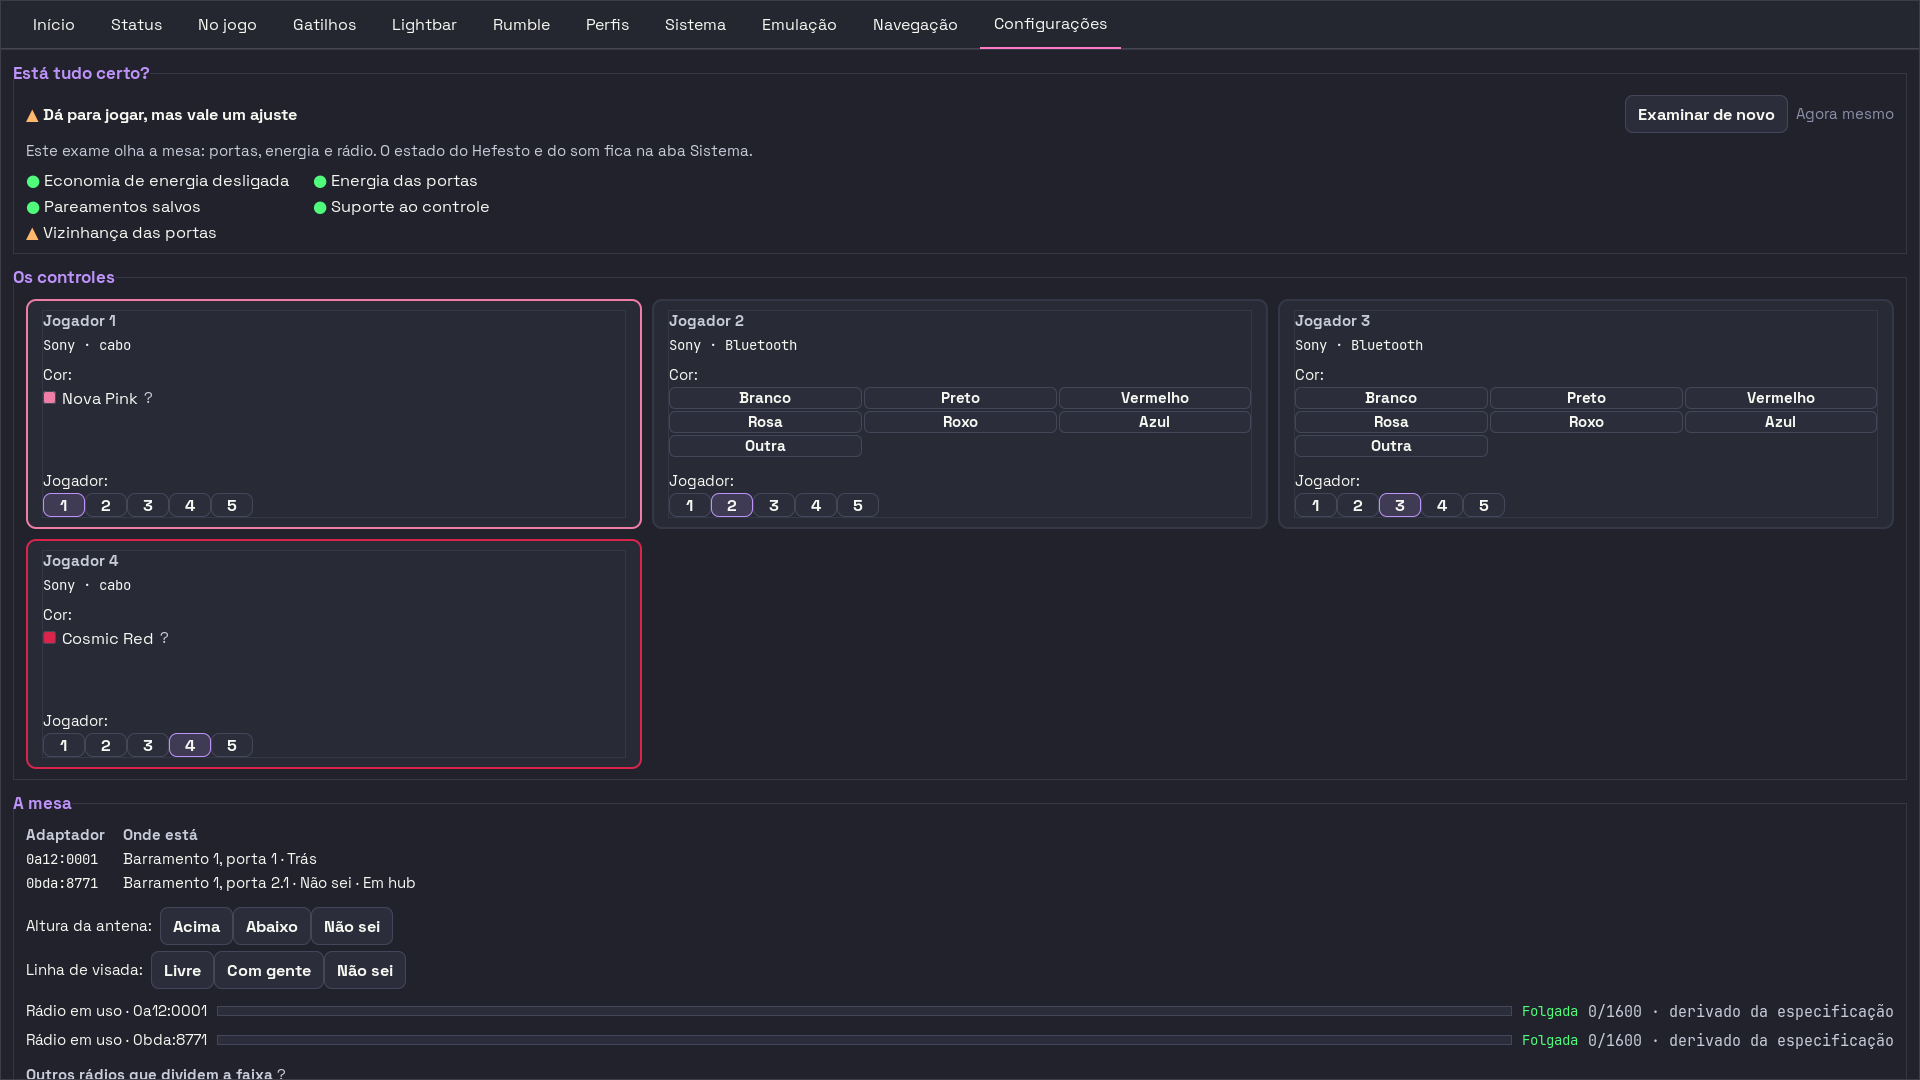
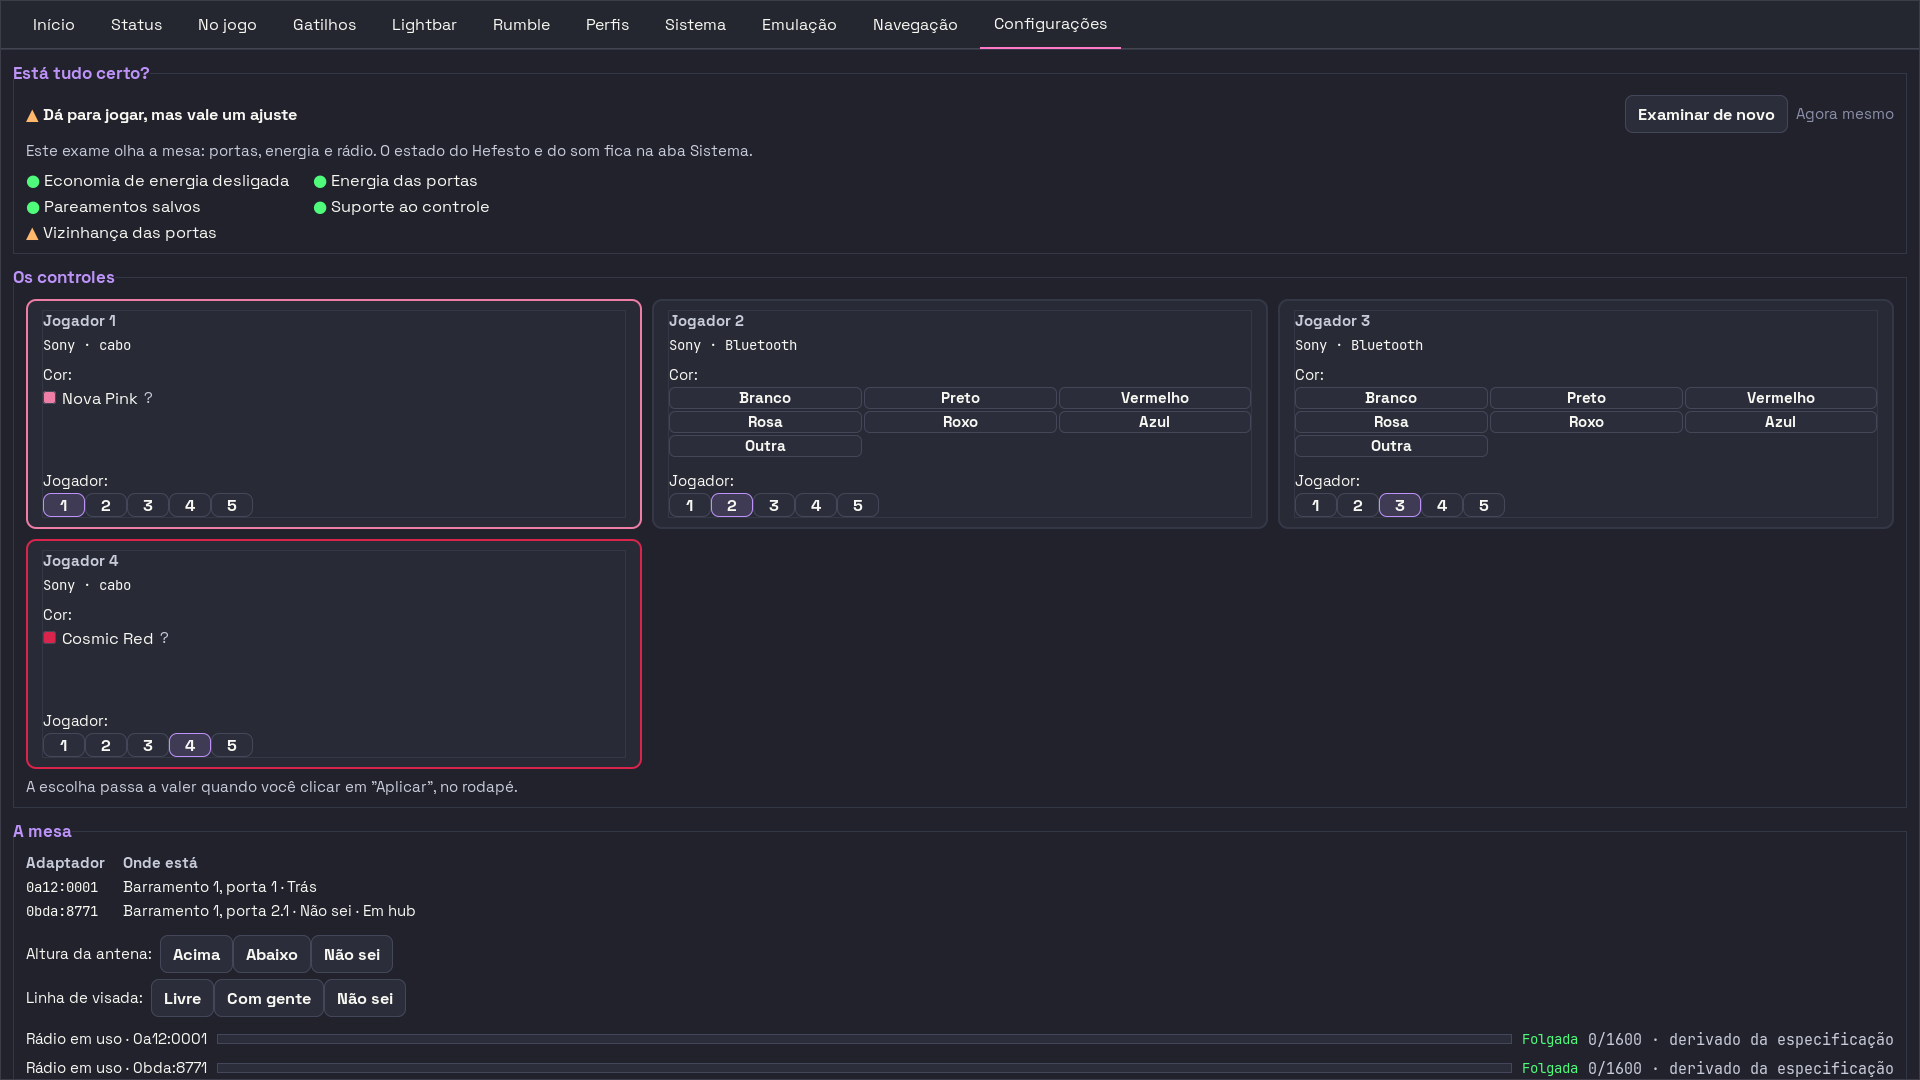
chore: o specs.html regerado, a foto acima da dobra, e as chaves de payload isentas do portão de acento

Changed region(s): [[0.0, 0.7333, 1.0, 1.0], [0.0312, 0.7028, 0.2812, 0.7333]]

diff --git a/specs.html b/specs.html
@@ -942,7 +942,7 @@ footer .selo { font-family: var(--font-dado); font-size: var(--text-xs);
        No estudo da lightbar eram quatro dos cinco canais; parar de acioná-los foi
        o que deixou o produto menor. Um culpado isolado diz por onde acionar; os
        inocentados dizem <em>o que dá para parar de fazer</em>.</p>
-    <p class="selo">gerado em 22/08/2026 15:56 a partir de docs/data/mapa-controles.csv ·
+    <p class="selo">gerado em 22/08/2026 16:59 a partir de docs/data/mapa-controles.csv ·
        308 linhas · o v1 por transporte está guardado em
        docs/data/mapa-controles-v1.csv · os três desenhos são assets/control-svg/</p>
   </footer>

diff --git a/tests/unit/test_o_lancamento_ativa_o_perfil_inteiro.py b/tests/unit/test_o_lancamento_ativa_o_perfil_inteiro.py
@@ -285,17 +285,17 @@ def test_o_relatorio_da_ativacao_sobe_no_retorno(
 ) -> None:
     """Sem ele, `armado: True` é resposta de TRANSPORTE.
 
-    Mordida: apagar a chave `"ativacao"` de um dos dois dicionários de retorno.
+    Mordida: apagar a chave do payload de um dos dois dicionários de retorno.
     """
     _daemon, resultado = _armar(env_dir, monkeypatch, na_allowlist=na_allowlist)
 
     assert resultado is not None
-    ativacao = resultado.get("ativacao")
-    assert isinstance(ativacao, dict) and ativacao, (
+    entrou = resultado.get("ativacao")  # chave de payload (noqa-acento)
+    assert isinstance(entrou, dict) and entrou, (
         "o retorno do arming não carrega o que a ativação fez. Quem pergunta "
         "'o perfil entrou?' continua tendo de adivinhar pelo aparelho"
     )
-    assert set(ativacao) == set(_GerenteEspiao.SECOES)
+    assert set(entrou) == set(_GerenteEspiao.SECOES)
 
 
 # --- 5. Falhar na ativação não derruba o arming -----------------------------
@@ -313,7 +313,7 @@ def test_ativacao_que_levanta_nao_impede_o_arming_do_modo(
 
     assert resultado is not None and resultado["armado"] is True
     assert len(daemon.aplicados) == 1, "o modo deixou de ser armado por causa da falha"
-    assert resultado["ativacao"] == {}, (
+    assert resultado["ativacao"] == {}, (  # chave de payload (noqa-acento)
         "relatório vazio é o que uma exceção deixa; um relatório cheio de "
         "`ignorado_*` conta outra história, e as duas precisam ser distinguíveis"
     )
@@ -349,7 +349,7 @@ def test_a_fabrica_cobre_todo_applier_que_o_gerente_aceita() -> None:
 
     Medido em 22/08/2026, escrevendo este arquivo: a primeira versão deste teste
     iterava `APPLIERS_DO_DAEMON` para conferir `APPLIERS_DO_DAEMON`. Arrancar um
-    par da lista fazia o teste passar — ele media o instrumento contra ele
+    par da lista fazia o teste passar — ele conferia o instrumento contra si
     mesmo. Nesta casa o instrumento mente mais que o produto, e a regra é
     validar a régua contra uma contagem independente antes de acreditar nela.
 

diff --git a/src/hefesto_dualsense4unix/daemon/launch_env.py b/src/hefesto_dualsense4unix/daemon/launch_env.py
@@ -1122,7 +1122,7 @@ def arm_launch_profile(
             "armado": False,
             "motivo": "allowlist_steam_input",
             "supressao": supressao,
-            "ativacao": ativacao,
+            "ativacao": ativacao,  # chave de payload, como a `supressao` ao lado (noqa-acento)
         }
 
     mode = getattr(profile, "mode", None)
@@ -1294,7 +1294,7 @@ def arm_launch_profile(
         # no retorno da allowlist. Sem ele, "armado: True" continuaria sendo
         # resposta de TRANSPORTE — diz que o modo foi pedido, e cala sobre as
         # outras sete seções do perfil.
-        "ativacao": ativacao,
+        "ativacao": ativacao,  # chave de payload, como a `supressao` ao lado (noqa-acento)
     }
 
 
